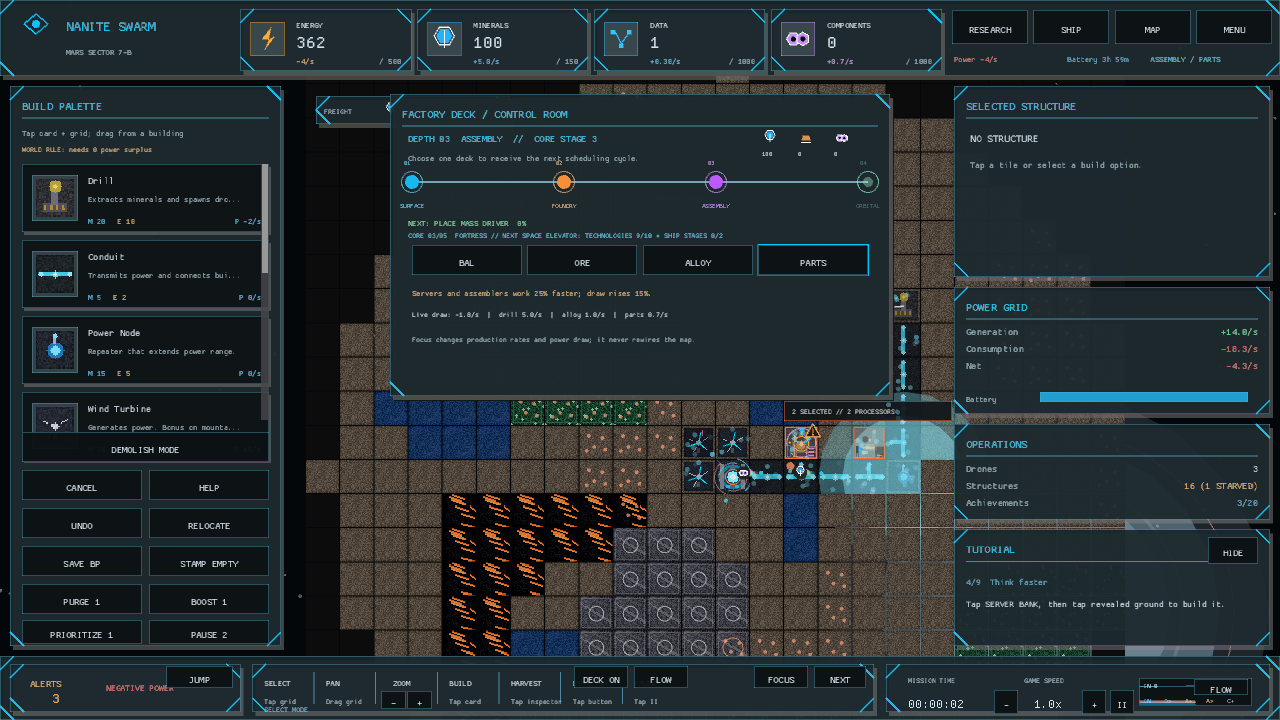
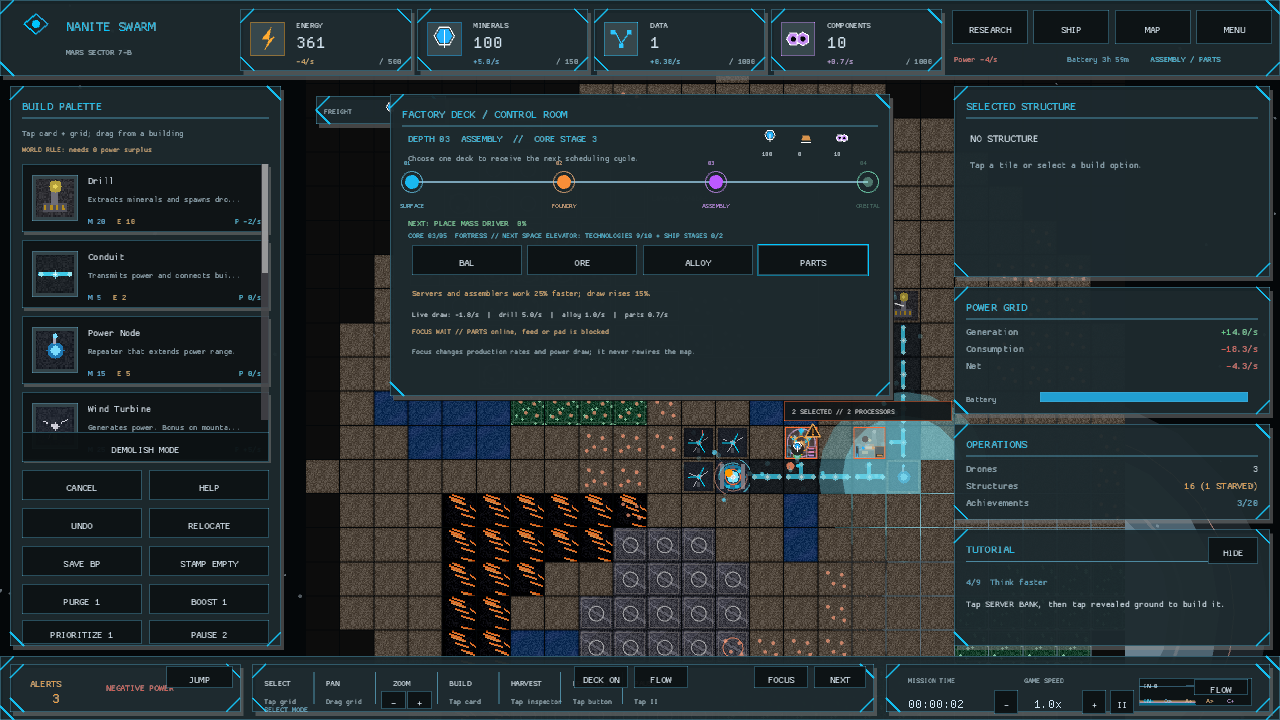
The swarm reads its focus signal before feeding a deck (factory focus feedback, GDD 4)
The Factory Deck could change production rates without telling the player whether the selected deck was contributing. Added a derived focus readout that counts targeted, powered, online, and producing machines, then surface live, limited, waiting, paused, offline, and targetless states in the control room. Covered the state and compact UI logic with regressions, updated the controls guide, and refreshed desktop and portrait verification captures.

Changed region(s): [[0.5312, 0.6111, 0.6875, 0.6722], [0.3125, 0.4583, 0.5312, 0.4889]]

diff --git a/src/screens/planetary_view/factory_deck.rs b/src/screens/planetary_view/factory_deck.rs
@@ -1,7 +1,7 @@
 //! The compact control-room overlay for the factory's deeper decks.
 
 use crate::data::UiTheme;
-use crate::state::{FactoryFocus, Milestone, PlanetState};
+use crate::state::{FactoryFocus, FactoryFocusReadout, Milestone, PlanetState};
 use crate::ui::{color_from_rgba, draw_hud_button, draw_hud_panel, draw_resource_icon};
 use macroquad::prelude::*;
 use macroquad_toolkit::colors::with_alpha;
@@ -218,11 +218,25 @@ pub(super) fn draw_factory_depth_overlay(
         )
     };
     draw_ui_text(&live_readout, panel.x + 22.0, panel.y + 223.0, 9.0, text);
+    let focus_readout = state.factory_focus_readout();
+    let (focus_status, focus_status_color) = focus_status_line(state.factory_focus, focus_readout);
+    let focus_status = truncate_text_to_width(
+        &focus_status,
+        panel.w - 44.0,
+        if narrow { 8.0 } else { 9.0 },
+    );
+    draw_ui_text(
+        &focus_status,
+        panel.x + 22.0,
+        panel.y + 240.0,
+        if narrow { 8.0 } else { 9.0 },
+        if focus_status_color { warning } else { success },
+    );
     if compact {
         draw_ui_text(
             "Tap DECK to close",
             panel.x + 22.0,
-            panel.y + 248.0,
+            panel.y + 260.0,
             9.0,
             dim,
         );
@@ -230,7 +244,7 @@ pub(super) fn draw_factory_depth_overlay(
         draw_ui_text(
             "Focus changes production rates and power draw; it never rewires the map.",
             panel.x + 22.0,
-            panel.y + 248.0,
+            panel.y + 260.0,
             9.0,
             dim,
         );
@@ -261,6 +275,62 @@ pub(super) fn draw_factory_depth_overlay(
             draw_ui_text(&format!("{:.0}", amount), x, panel.y + 62.0, 8.0, text);
         }
     }
+}
+
+fn focus_status_line(focus: FactoryFocus, readout: FactoryFocusReadout) -> (String, bool) {
+    if focus == FactoryFocus::Balanced {
+        return ("FOCUS BALANCED // no modifier applied".to_string(), false);
+    }
+    if readout.targets == 0 {
+        return ("FOCUS IDLE // no target machines".to_string(), true);
+    }
+    if readout.producing == readout.targets {
+        return (
+            format!(
+                "FOCUS LIVE // {} {}/{} producing",
+                focus.short_label(),
+                readout.producing,
+                readout.targets
+            ),
+            false,
+        );
+    }
+    if readout.producing > 0 {
+        return (
+            format!(
+                "FOCUS LIMITED // {} {}/{} producing",
+                focus.short_label(),
+                readout.producing,
+                readout.targets
+            ),
+            true,
+        );
+    }
+    if readout.online > 0 {
+        return (
+            format!(
+                "FOCUS WAIT // {} online, feed or pad is blocked",
+                focus.short_label()
+            ),
+            true,
+        );
+    }
+    if readout.powered > 0 {
+        return (
+            format!(
+                "FOCUS PAUSED // {} standby or dust stalled",
+                focus.short_label()
+            ),
+            true,
+        );
+    }
+    (
+        format!(
+            "FOCUS OFFLINE // {} target machines unpowered",
+            focus.short_label()
+        ),
+        true,
+    )
 }
 
 fn factory_deck_layout(screen_w: f32, screen_h: f32, metrics: HudMetrics) -> FactoryDeckLayout {

diff --git a/src/state/factory.rs b/src/state/factory.rs
@@ -6,8 +6,23 @@
 
 use crate::engine::BuildingType;
 use serde::{Deserialize, Serialize};
+use std::collections::HashSet;
 
 use super::game_state::PlanetState;
+
+/// Live reach of the selected factory focus.
+///
+/// A focus can be selected before its deck exists, or while every affected
+/// machine is waiting on power, feed, or dispatch space. Keeping those cases
+/// distinct lets the control room explain whether the trade is doing useful
+/// work instead of making the player infer it from a rate that may be zero.
+#[derive(Debug, Clone, Copy, PartialEq, Eq, Default)]
+pub struct FactoryFocusReadout {
+    pub targets: usize,
+    pub powered: usize,
+    pub online: usize,
+    pub producing: usize,
+}
 
 /// Which production deck receives the swarm's spare scheduling attention.
 ///
@@ -149,6 +164,42 @@ impl PlanetState {
 
     pub fn factory_focus_multiplier(&self, building_type: BuildingType) -> f32 {
         self.factory_focus.work_multiplier(building_type)
+    }
+
+    /// Count the machines affected by the current focus and how many can
+    /// currently turn that modifier into output.
+    pub fn factory_focus_readout(&self) -> FactoryFocusReadout {
+        if self.factory_focus == FactoryFocus::Balanced {
+            return FactoryFocusReadout::default();
+        }
+
+        let dust_response = self.resolved_dust_response();
+        let starved: HashSet<_> = self.starved_factories().into_iter().collect();
+        let blocked: HashSet<_> = self.blocked_factories().into_iter().collect();
+        let mut readout = FactoryFocusReadout::default();
+        for (position, tile) in self.grid.iter_tiles() {
+            let Some(building) = tile.building.as_ref() else {
+                continue;
+            };
+            if !self.factory_focus.affects(building.building_type) {
+                continue;
+            }
+
+            readout.targets += 1;
+            if building.powered {
+                readout.powered += 1;
+            }
+            if building.powered
+                && !building.standby
+                && !building.is_dust_stalled_with(&dust_response)
+            {
+                readout.online += 1;
+                if !starved.contains(&position) && !blocked.contains(&position) {
+                    readout.producing += 1;
+                }
+            }
+        }
+        readout
     }
 
     /// Extra draw from a focused production deck. This is kept separate from

diff --git a/src/state/factory/tests.rs b/src/state/factory/tests.rs
@@ -57,6 +57,66 @@ fn a_focused_powered_deck_pays_the_declared_energy_tax() {
 }
 
 #[test]
+fn focus_readout_distinguishes_online_and_producing_targets() {
+    let mut state = state();
+    place_unlocked(&mut state, BuildingType::Drill, 1);
+    state.factory_focus = FactoryFocus::Extraction;
+
+    let readout = state.factory_focus_readout();
+    assert_eq!(readout.targets, 1);
+    assert_eq!(readout.powered, 1);
+    assert_eq!(readout.online, 1);
+    assert_eq!(readout.producing, 1);
+}
+
+#[test]
+fn focus_readout_marks_a_starved_processor_as_online_but_not_producing() {
+    let mut state = state();
+    place_unlocked(&mut state, BuildingType::Assembler, 1);
+    state.factory_focus = FactoryFocus::Assembly;
+
+    let readout = state.factory_focus_readout();
+    assert_eq!(readout.targets, 1);
+    assert_eq!(readout.online, 1);
+    assert_eq!(readout.producing, 0);
+}
+
+#[test]
+fn focus_readout_reports_a_standby_machine_as_offline() {
+    let mut state = state();
+    place_unlocked(&mut state, BuildingType::Drill, 1);
+    state.factory_focus = FactoryFocus::Extraction;
+    let position = state
+        .grid
+        .iter_tiles()
+        .find_map(|(position, tile)| {
+            (tile
+                .building
+                .as_ref()
+                .is_some_and(|building| building.building_type == BuildingType::Drill))
+            .then_some(position)
+        })
+        .unwrap();
+    state
+        .grid
+        .get_mut(position)
+        .and_then(|tile| tile.building.as_mut())
+        .unwrap()
+        .standby = true;
+
+    let readout = state.factory_focus_readout();
+    assert_eq!(
+        readout,
+        FactoryFocusReadout {
+            targets: 1,
+            powered: 1,
+            online: 0,
+            producing: 0
+        }
+    );
+}
+
+#[test]
 fn depth_opens_from_foundry_to_assembly_to_orbital() {
     let mut state = state();
     assert_eq!(state.factory_depth(), 0);

diff --git a/src/screens/planetary_view/factory_deck/tests.rs b/src/screens/planetary_view/factory_deck/tests.rs
@@ -59,3 +59,28 @@ fn factory_deck_marks_a_fully_evolved_core() {
         "CORE 5/5 // FULLY EVOLVED"
     );
 }
+
+#[test]
+fn focus_status_explains_when_the_selected_deck_is_not_contributing() {
+    let (status, warning) = focus_status_line(
+        FactoryFocus::Assembly,
+        FactoryFocusReadout {
+            targets: 2,
+            powered: 2,
+            online: 2,
+            producing: 1,
+        },
+    );
+
+    assert_eq!(status, "FOCUS LIMITED // PARTS 1/2 producing");
+    assert!(warning);
+}
+
+#[test]
+fn focus_status_marks_an_unbuilt_deck_as_idle() {
+    let (status, warning) =
+        focus_status_line(FactoryFocus::Refining, FactoryFocusReadout::default());
+
+    assert_eq!(status, "FOCUS IDLE // no target machines");
+    assert!(warning);
+}

diff --git a/README.md b/README.md
@@ -103,6 +103,9 @@ stay in that durable log so they do not cover controls or scrollable panels.
 The selected-structure Power row follows the standing building's live draw or
 generation, including dust, overclock, standby, focus, and research effects;
 build previews continue to show nominal power.
+The Factory Deck control room reports whether the selected focus is live,
+limited, waiting on feed or dispatch space, paused by standby or dust, offline,
+or aimed at a deck with no machines yet.
 When the bottom alert card reports a logistics problem, tap its JUMP button to
 cycle through the affected structures or network tiles; power-only problems
 keep the FLOW button for the network diagnosis overlay.
